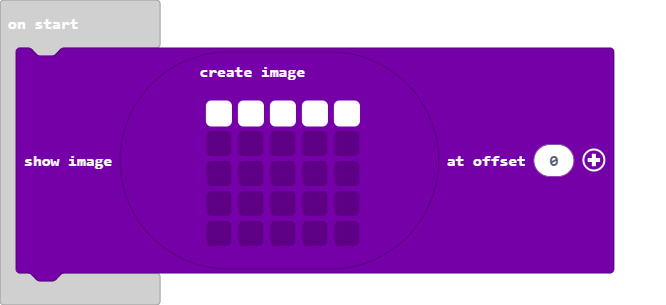
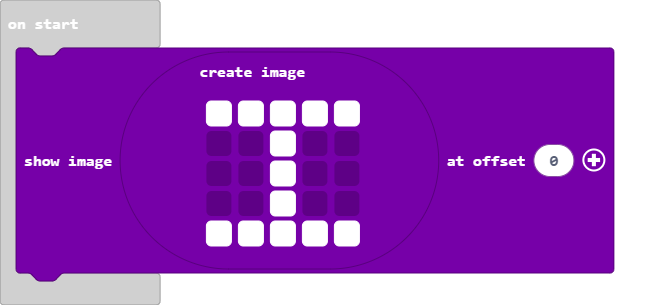
changed image

Changed region(s): [[0.3003, 0.4131, 0.5405, 0.8262]]

diff --git a/main.ts b/main.ts
@@ -1,9 +1,9 @@
 images.createImage(`
     # # # # #
-    . . . . .
-    . . . . .
-    . . . . .
-    . . . . .
+    . . # . .
+    . . # . .
+    . . # . .
+    # # # # #
     `).showImage(0)
 basic.forever(function () {
 	
